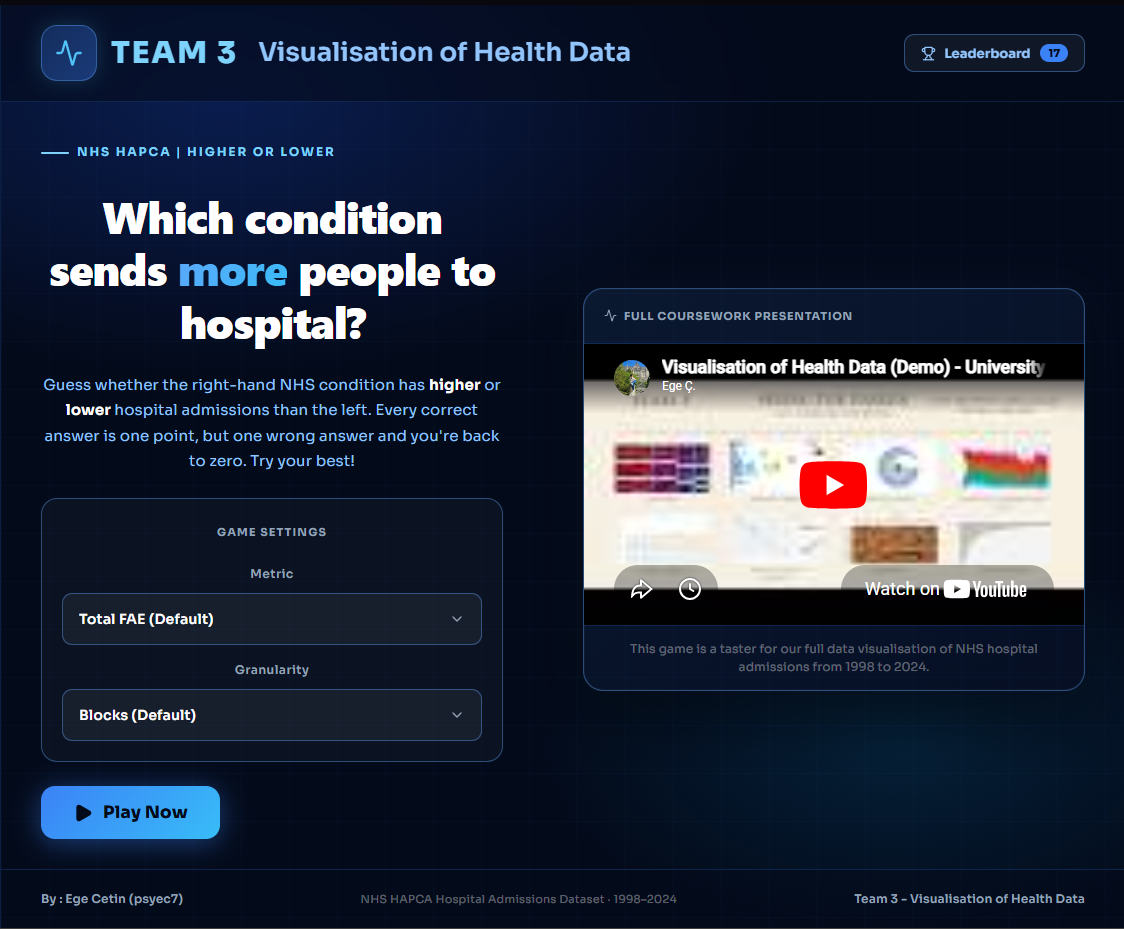
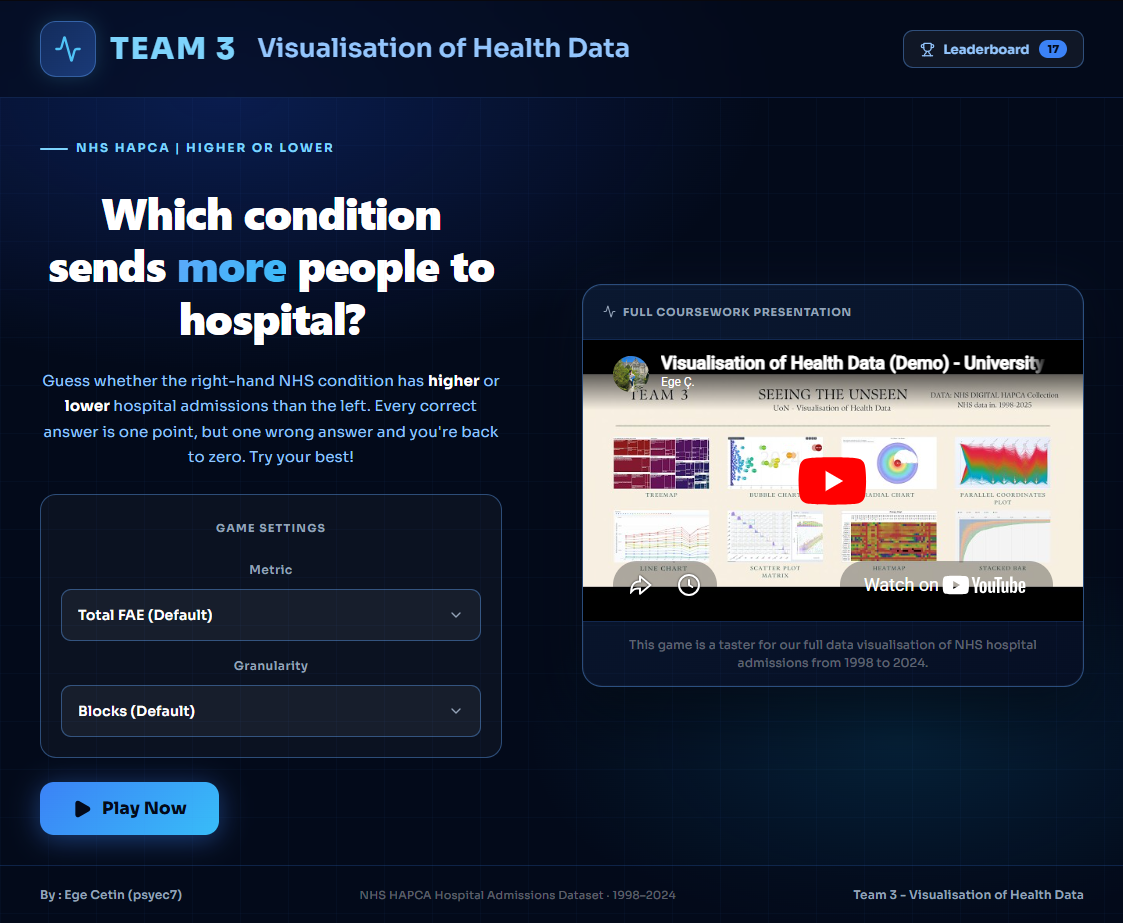
chore: update screenshot of home page + make fae default

diff --git a/nhs-higher-lower/src/components/HomePage.tsx b/nhs-higher-lower/src/components/HomePage.tsx
@@ -15,7 +15,7 @@ const YOUTUBE_VIDEO_ID = '-iPyuSVeKGY';
 
 
 export function HomePage({ onPlay, onLeaderboard, highScore }: Props) {
-  const [metric, setMetric] = useState<MetricKey>('fce_total');
+  const [metric, setMetric] = useState<MetricKey>('fae_total');
   const [granularity, setGranularity] = useState<GranularityKey>('block');
   const [metricOpen, setMetricOpen] = useState(false);
   const [granOpen, setGranOpen] = useState(false);
